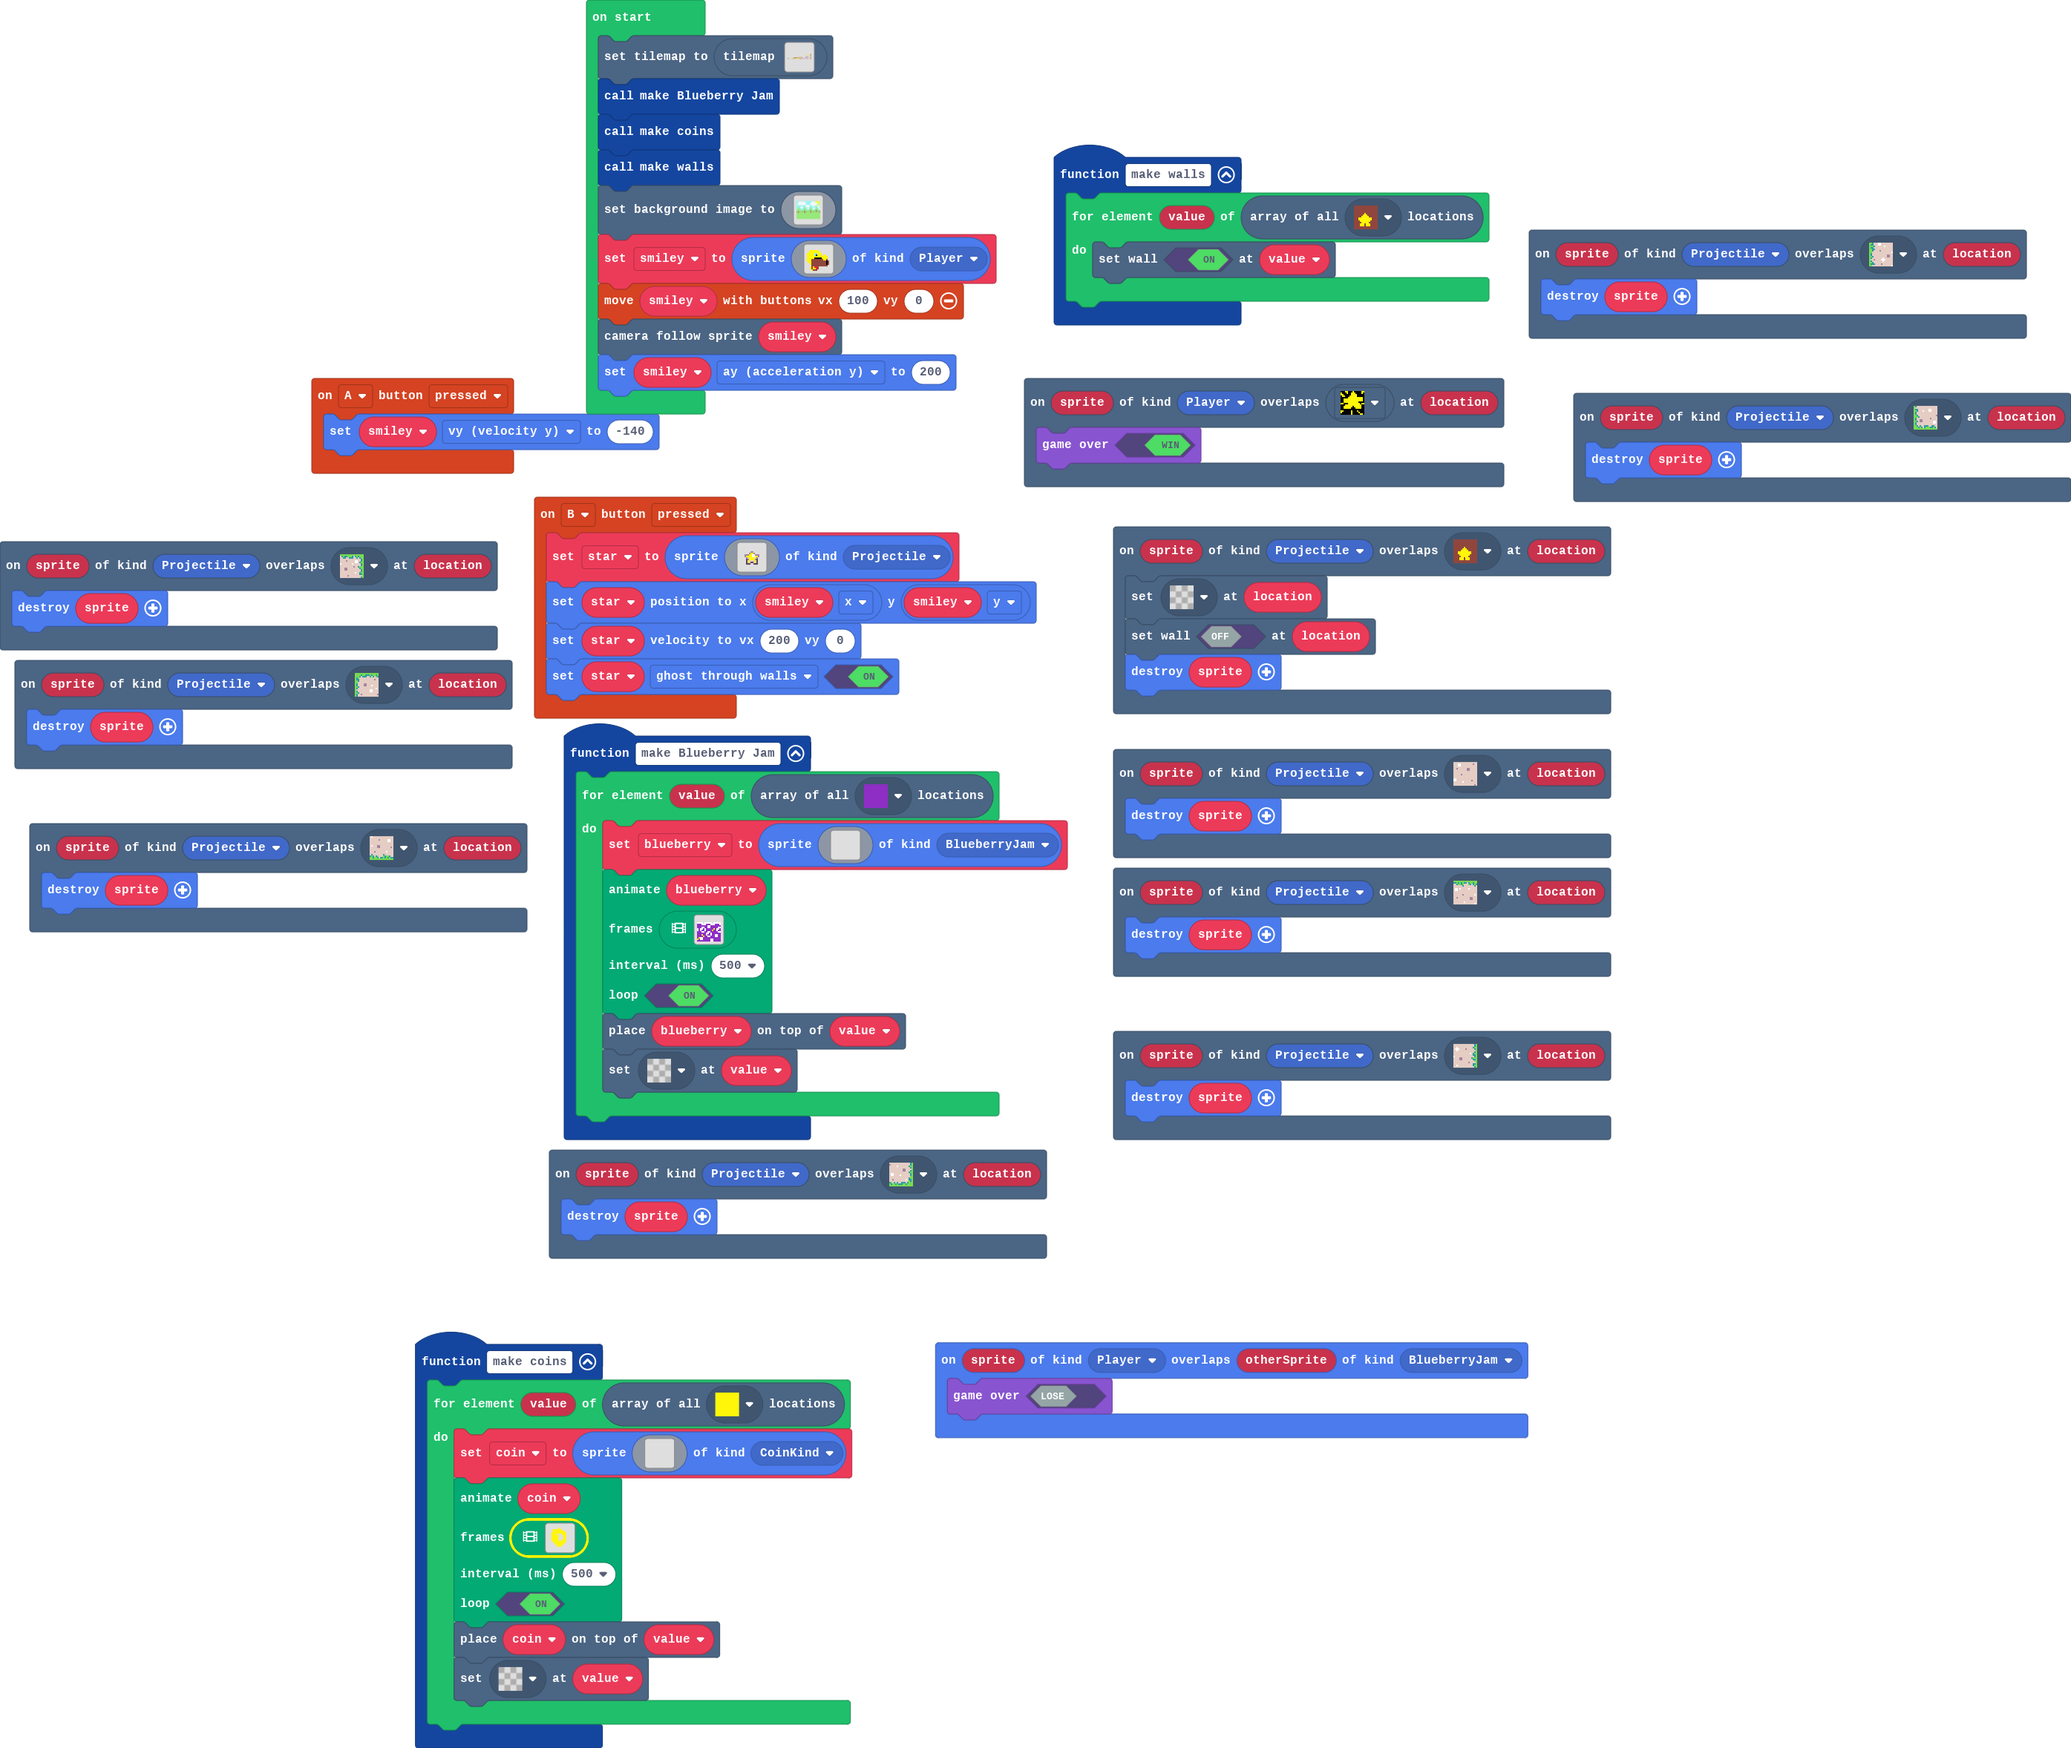
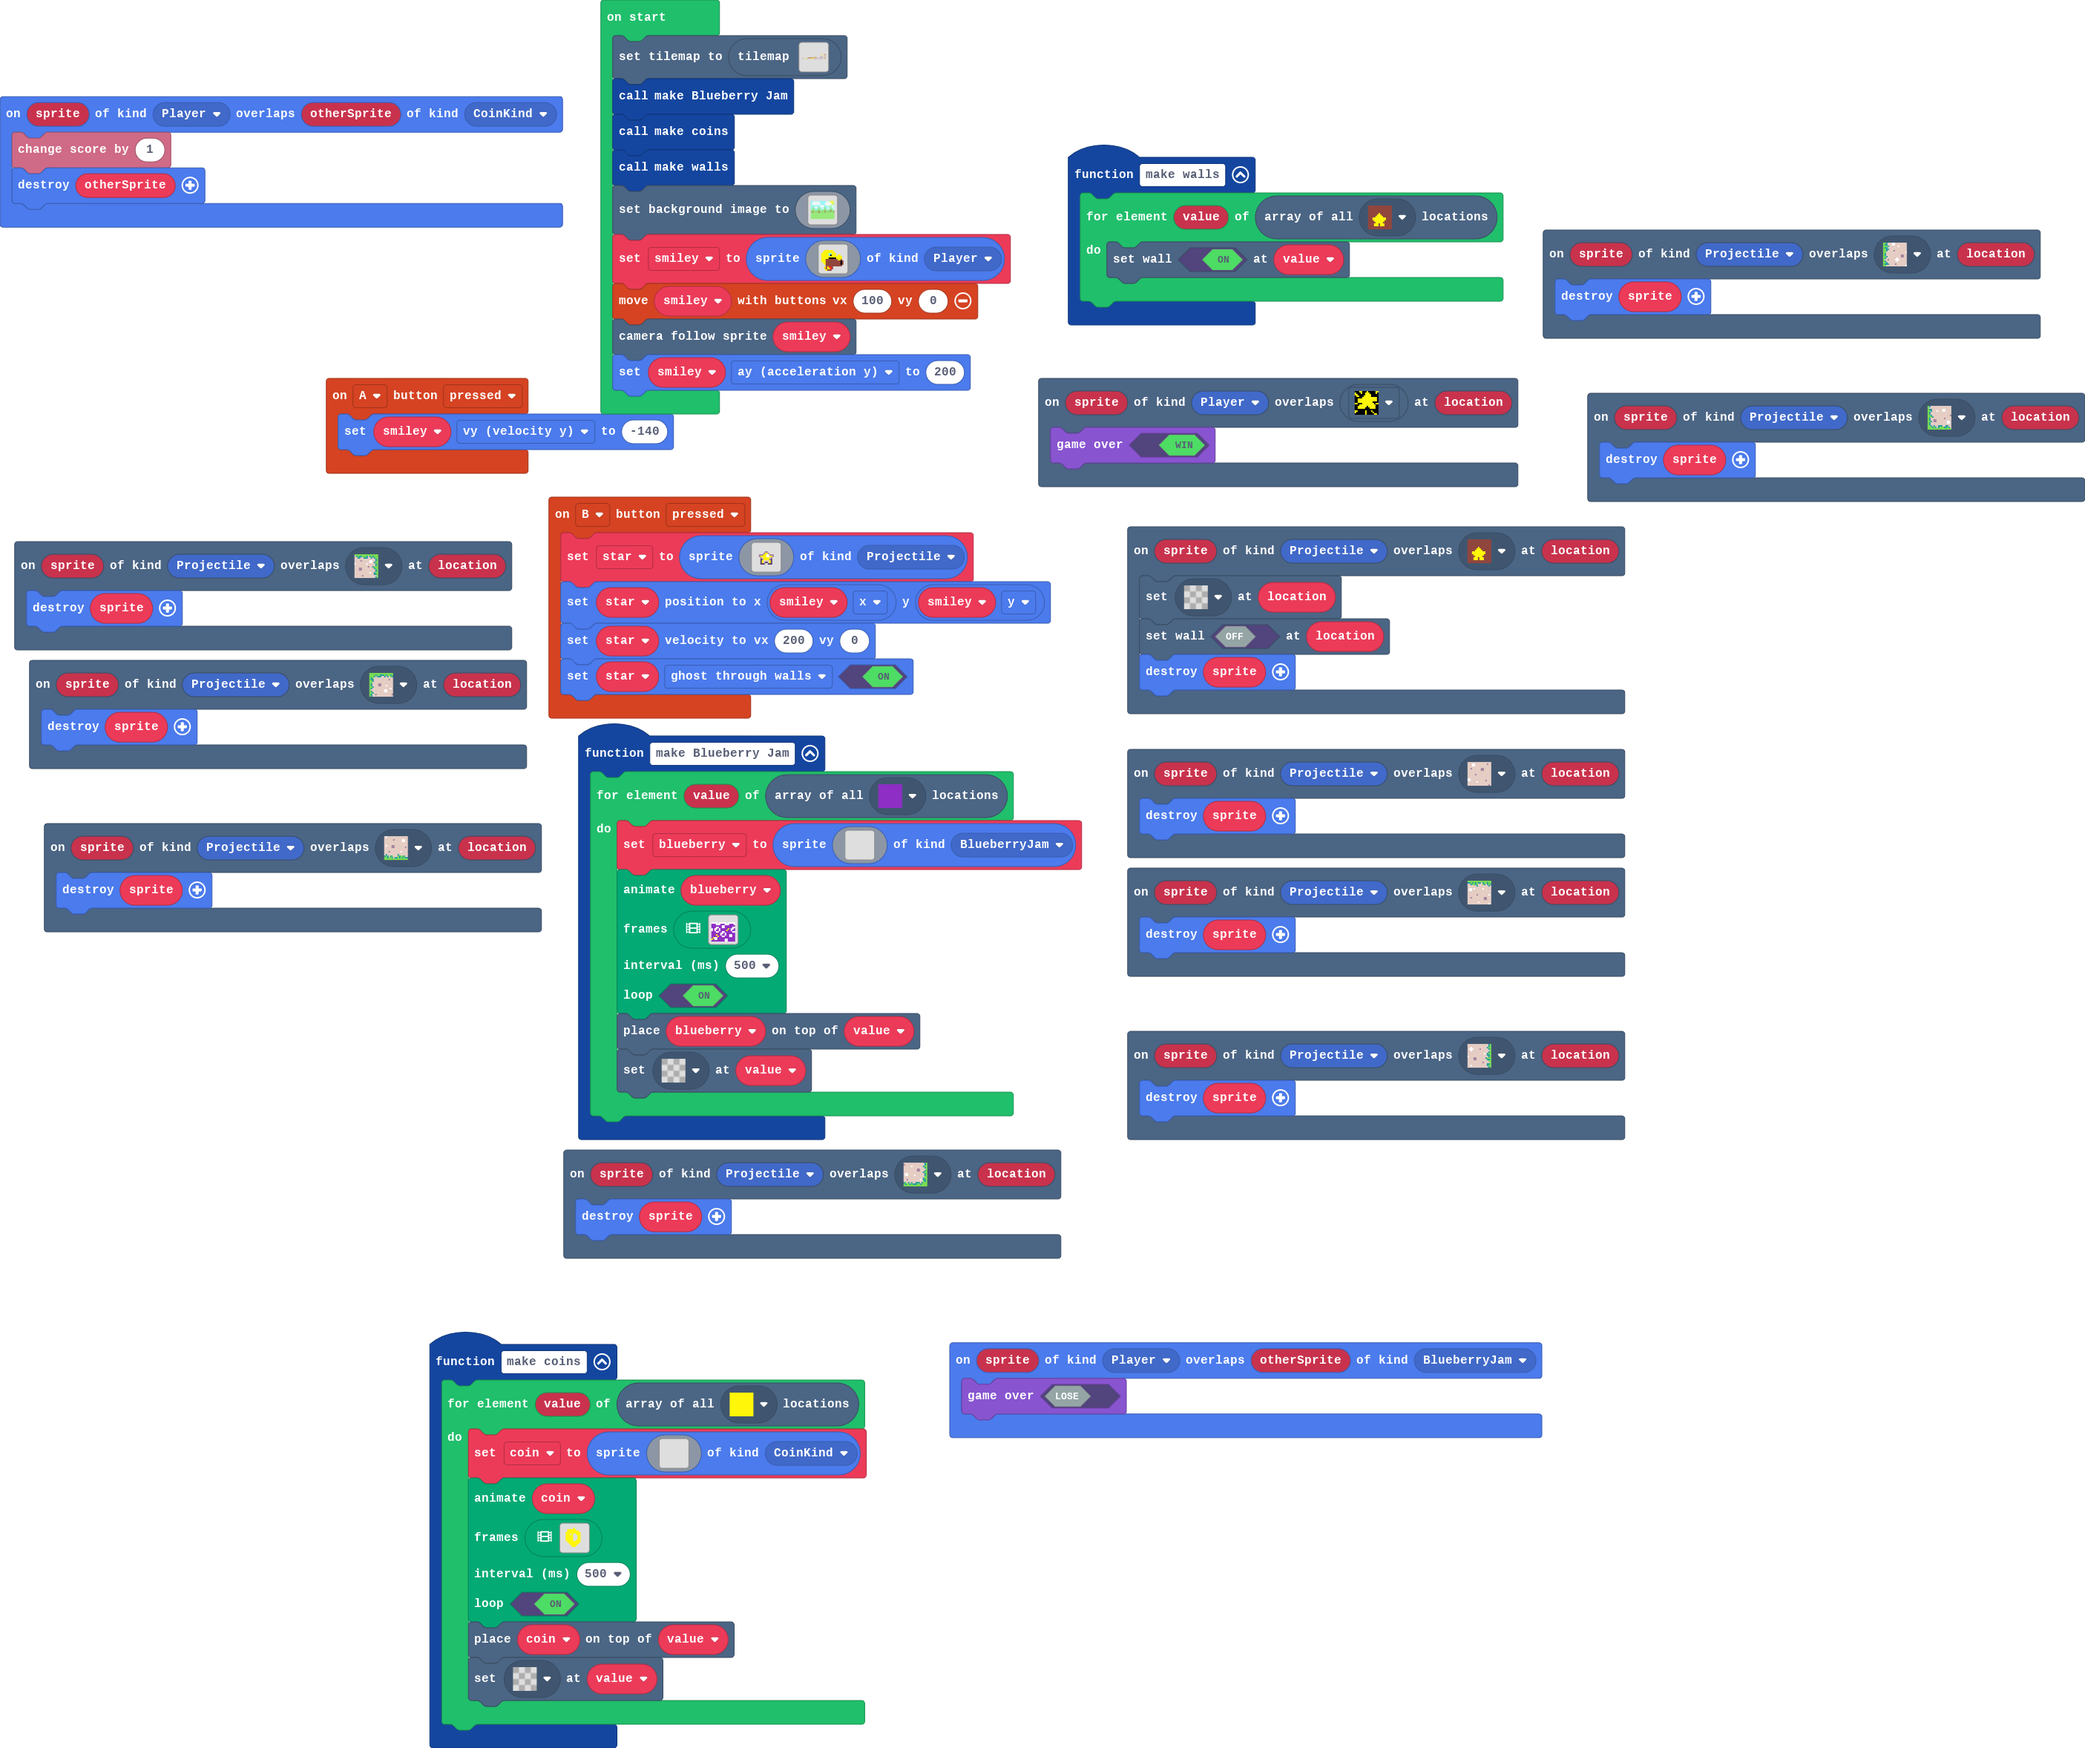
Update main.blocks, main.ts, tilemap.g.jres, tilemap.g.ts

diff --git a/tilemap.g.ts b/tilemap.g.ts
@@ -71,7 +71,7 @@ namespace myTiles {
 . . . . . . . . . . . . . . . . 
 `, [myTiles.transparency16], TileScale.Sixteen);
             case "level2":
[2 lines of base64/hex data omitted]
 ...............................................................2......2.........
 ...............................................................2......2.........
 ...............................................................2......2.........
@@ -85,7 +85,7 @@ namespace myTiles {
 ...........................................................2.2222222222....222..
 .........................................................................22.....
 ........................................................................22......
-222...........................222222...2.2.2.2.222.....22....22.......222.......
+222...........................222222...22..22..222.....22....22.......222.......
 ....2.................22222222........2..........2..........2222.....2222.......
 222222222222222222222222222222.......2222222222222222222222222222222222222222222
 `, [myTiles.transparency16,sprites.castle.tilePath2,sprites.castle.tilePath5,myTiles.tile1,sprites.castle.tilePath8,myTiles.tile2,sprites.castle.tilePath9,sprites.castle.tilePath6,myTiles.tile3,myTiles.tile4,sprites.castle.tilePath7,sprites.castle.tilePath1,sprites.castle.tilePath3,sprites.castle.tilePath4], TileScale.Sixteen);

diff --git a/main.ts b/main.ts
@@ -134,6 +134,10 @@ scene.onOverlapTile(SpriteKind.Projectile, assets.tile`myTile`, function (sprite
     tiles.setWallAt(location, false)
     sprites.destroy(sprite)
 })
+sprites.onOverlap(SpriteKind.Player, SpriteKind.CoinKind, function (sprite, otherSprite) {
+    info.changeScoreBy(1)
+    sprites.destroy(otherSprite)
+})
 controller.A.onEvent(ControllerButtonEvent.Pressed, function () {
     smiley.vy = -140
 })
